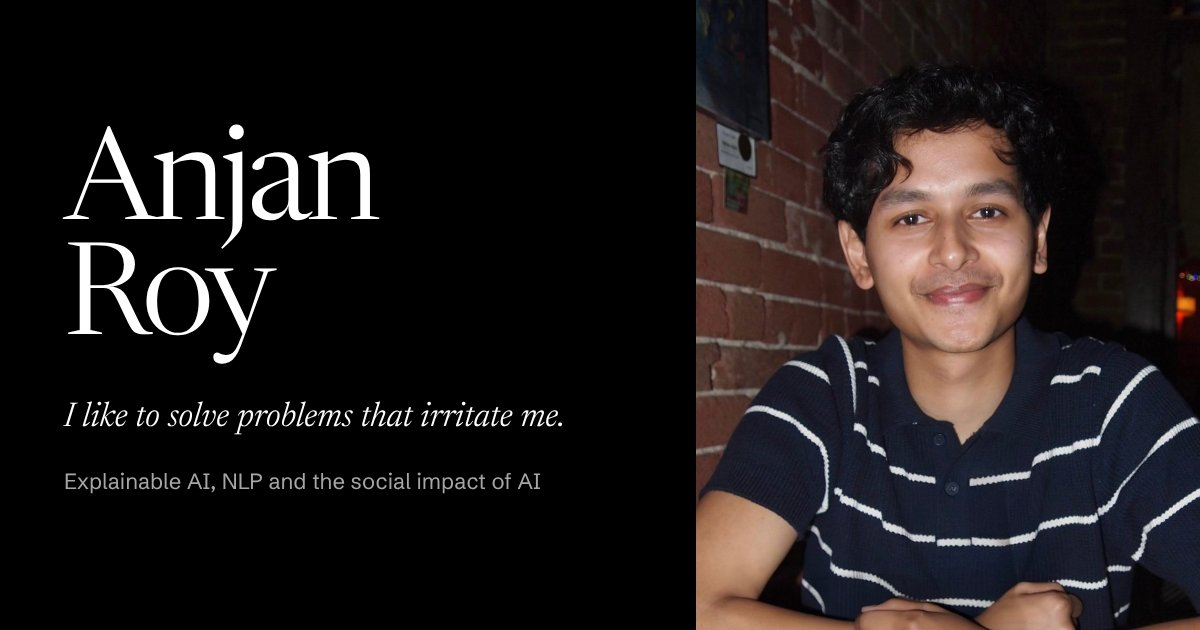
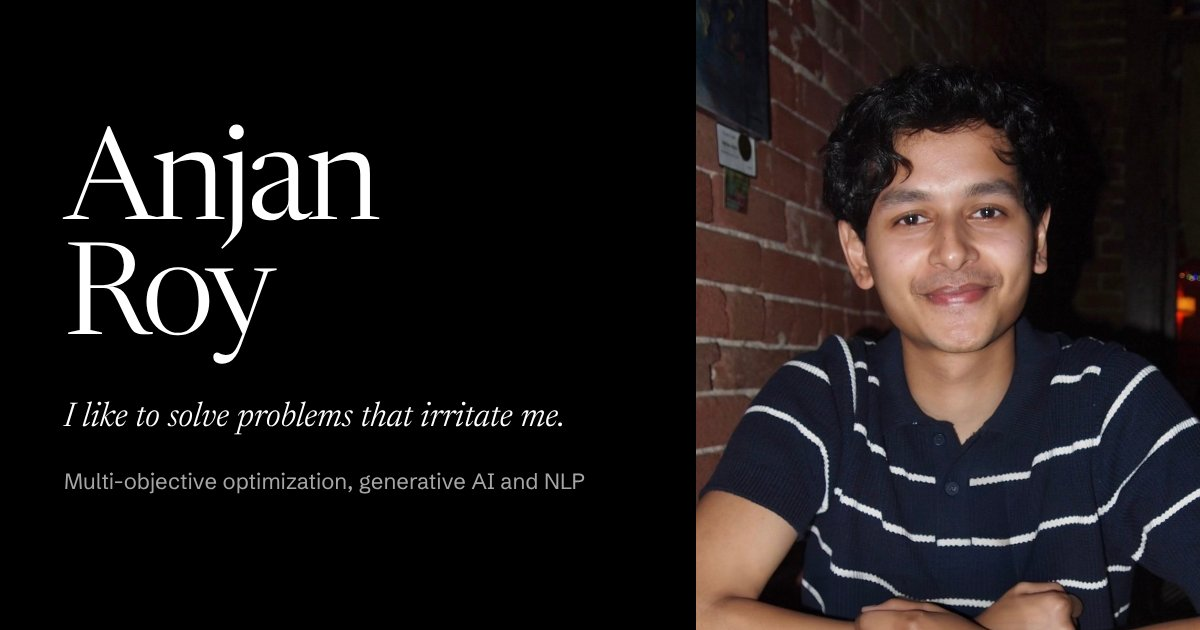
updates

Changed region(s): [[0.0617, 0.754, 0.4933, 0.7841]]

diff --git a/index.html b/index.html
@@ -3,15 +3,15 @@
 <head>
   <meta charset="utf-8">
   <meta name="viewport" content="width=device-width, initial-scale=1">
-  <title>Anjan Roy | Explainable AI, NLP and AI's social impact</title>
-  <meta name="description" content="Anjan Roy is a computer science researcher (BS and MS, Missouri State University) working on explainable AI, natural language processing, and the impact of AI on overlooked communities. Looking for PhD opportunities.">
+  <title>Anjan Roy | Computer science researcher</title>
+  <meta name="description" content="Anjan Roy is a computer science researcher (BS and MS, Missouri State University) working on generative models, multi-objective optimization and natural language processing. Looking for PhD opportunities.">
   <meta name="author" content="Anjan Roy">
   <link rel="canonical" href="https://anjan14.github.io/">
 
   <meta property="og:type" content="website">
   <meta property="og:url" content="https://anjan14.github.io/">
   <meta property="og:title" content="Anjan Roy">
-  <meta property="og:description" content="Computer science researcher working on explainable AI, NLP, and the impact of AI on overlooked communities.">
+  <meta property="og:description" content="Computer science researcher working on generative models, multi-objective optimization and natural language processing.">
   <meta property="og:image" content="https://anjan14.github.io/assets/img/og-image.jpg">
   <meta name="twitter:card" content="summary_large_image">
 
@@ -45,7 +45,7 @@
     "image": "https://anjan14.github.io/assets/img/anjan-roy.jpg",
     "email": "mailto:ar567s@missouristate.edu",
     "alumniOf": { "@type": "CollegeOrUniversity", "name": "Missouri State University" },
-    "knowsAbout": ["Explainable AI", "Natural language processing", "Data science", "Societal impact of AI"],
+    "knowsAbout": ["Generative AI", "Multi-objective optimization", "Natural language processing", "Uncertainty and latent-variable models", "Reinforcement learning", "Data science"],
     "sameAs": [
       "https://github.com/Anjan14",
       "https://www.linkedin.com/in/anjan-roy14/",
@@ -141,22 +141,20 @@
         <div class="section-body">
           <div class="prose-lg">
             <p>
-              Large language models are advancing faster than the guardrails meant to keep them from acting
-              irrationally, and because our societies are organized around profit and an illusion of competition,
-              pausing that progress isn’t realistic. I think the most plausible way to protect people’s interests
-              is rigorous scholarship, both qualitative and quantitative, that explains how these systems reason
-              when they make decisions. That understanding lets researchers show a broader audience how AI
-              development affects marginalized communities. The nonlinear path of my own life and interests is a
-              big part of why I care about this direction.
+              My current work, GenMOR, asks whether a variational autoencoder can learn what makes a plan
+              Pareto-optimal from data alone. I’ve also built a question-answering model that abstains when a
+              question has no answer and gives confidence scores that reflect how likely it is to be right.
             </p>
           </div>
 
           <h3 class="subhead">Interests</h3>
           <ul class="interest-list">
-            <li>Societal and environmental impact of AI on traditionally overlooked, marginalized communities</li>
-            <li>Explainable AI</li>
+            <li>Uncertainty and latent-variable models</li>
+            <li>Generative AI</li>
             <li>Natural language processing</li>
+            <li>Reinforcement learning</li>
             <li>Data science and analytics</li>
+            <li>Large-scale predictive modeling</li>
           </ul>
 
           <h3 class="subhead" id="work-title">Research experience</h3>
@@ -168,8 +166,8 @@
 
           <div class="work-group" data-group>
             <div class="work-group-head">
-              <h3>Graduate research, Missouri State University</h3>
-              <span class="dates">Jan 2025 – May 2026</span>
+              <h3>Graduate and undergraduate research, Missouri State University</h3>
+              <span class="dates">Jan 2021 – May 2026</span>
             </div>
             <ul class="work-list">
               <li data-topics="Generative models">
@@ -190,24 +188,7 @@
                   </div>
                 </details>
               </li>
-              <li data-topics="Explainable AI">
-                <details class="work">
-                  <summary>
-                    <span class="work-title">Meta-ensemble explainable AI</span>
-                    <span class="work-summary">A framework that learns to combine LIME, SHAP and Grad-CAM into more reliable visual explanations.</span>
-                    <span class="work-toggle" aria-hidden="true"></span>
-                  </summary>
-                  <div class="work-detail">
-                    <p>
-                      Instead of trusting a single explanation method, this framework integrates several (LIME, SHAP and Grad-CAM)
-                      and learns how to combine them into one visual attribution. It showed improved fidelity, stability and
-                      sparsity compared with each method on its own.
-                    </p>
-                    <ul class="tags"><li>Explainable AI</li><li>LIME</li><li>SHAP</li><li>Grad-CAM</li></ul>
-                  </div>
-                </details>
-              </li>
-              <li data-topics="NLP">
+              <li data-topics="NLP|Uncertainty">
                 <details class="work">
                   <summary>
                     <span class="work-title">Question answering that knows when not to answer</span>
@@ -222,6 +203,23 @@
                       an answer is to be correct.
                     </p>
                     <ul class="tags"><li>NLP</li><li>BERT</li><li>Calibration</li></ul>
+                  </div>
+                </details>
+              </li>
+              <li data-topics="Explainable AI">
+                <details class="work">
+                  <summary>
+                    <span class="work-title">Meta-ensemble explainable AI</span>
+                    <span class="work-summary">A framework that learns to combine LIME, SHAP and Grad-CAM into more reliable visual explanations.</span>
+                    <span class="work-toggle" aria-hidden="true"></span>
+                  </summary>
+                  <div class="work-detail">
+                    <p>
+                      Instead of trusting a single explanation method, this framework integrates several (LIME, SHAP and Grad-CAM)
+                      and learns how to combine them into one visual attribution. It showed improved fidelity, stability and
+                      sparsity compared with each method on its own.
+                    </p>
+                    <ul class="tags"><li>Explainable AI</li><li>LIME</li><li>SHAP</li><li>Grad-CAM</li></ul>
                   </div>
                 </details>
               </li>
@@ -244,36 +242,6 @@
                       recall for generative models while giving discriminative models only marginal efficiency gains.
                     </p>
                     <ul class="tags"><li>NLP</li><li>Data science</li><li>Naive Bayes</li><li>SVM</li></ul>
-                  </div>
-                </details>
-              </li>
-            </ul>
-          </div>
-
-          <div class="work-group" data-group>
-            <div class="work-group-head">
-              <h3>Undergraduate research, Missouri State University</h3>
-              <span class="dates">Jan 2021 – Dec 2024</span>
-            </div>
-            <ul class="work-list">
-              <li data-topics="Robotics and simulation">
-                <details class="work">
-                  <summary>
-                    <span class="work-title">Autonomous vessel navigation in simulation</span>
-                    <span class="work-summary">Maritime environments in Panda3D for testing how autonomous surface vehicles plan safe paths.</span>
-                    <span class="work-toggle" aria-hidden="true"></span>
-                  </summary>
-                  <div class="work-detail">
-                    <p>
-                      I designed realistic maritime simulation environments in the Panda3D game engine to evaluate autonomous
-                      surface vehicle (ASV) navigation, integrating AI path-finding and collision avoidance with motion-planning
-                      approaches including Velocity Obstacles (VO), Rapidly-exploring Random Trees (RRT), and hybrid
-                      VO-RRT planning that follows COLREGs, the international rules for avoiding collisions at sea.
-                    </p>
-                    <p>
-                      Results: navigation efficiency up 30%, potential collision rates down 25%, and trajectory accuracy up 20%.
-                    </p>
-                    <ul class="tags"><li>Motion planning</li><li>RRT</li><li>Panda3D</li></ul>
                   </div>
                 </details>
               </li>
@@ -303,9 +271,9 @@
                   </summary>
                   <div class="work-detail">
                     <p>
-                      A command-line shell with command execution, history management, error handling, scripting support and
-                      custom plugins. Refining memory management and process control cut command execution time by 20% and peak
-                      CPU usage by 25%, and the shell earned a 95% positive rating in user testing.
+                      A command-line shell with command execution, history management and robust error handling, extended
+                      with scripting support and custom plugins. I also improved its efficiency by refining memory management
+                      and process control.
                     </p>
                     <ul class="tags"><li>C</li><li>Operating systems</li></ul>
                   </div>
@@ -352,16 +320,16 @@
 
           <article class="project" aria-labelledby="asv-title">
             <div class="project-text">
-              <h3 class="project-title" id="asv-title">Autonomous surface vehicles</h3>
-              <p class="project-status">Undergraduate research, 2021–2024</p>
+              <h3 class="project-title" id="asv-title">Autonomous surface vessels</h3>
+              <p class="project-status">AIG Lab, Missouri State University, 2024</p>
               <p>
-                Realistic maritime simulations built in Panda3D to evaluate how autonomous surface vehicles navigate:
-                finding a path, avoiding collisions, and planning a safe trajectory.
+                Maritime simulation environments built in Panda3D to test how autonomous surface vessels navigate
+                head-on, crossing, overtaking, multi-vessel and traffic-separation-scheme scenarios.
               </p>
               <p>
-                I integrated and tested motion-planning approaches including Velocity Obstacles, Rapidly-exploring
-                Random Trees (RRT), and hybrid VO-RRT planning that follows COLREGs, the international rules for avoiding
-                collisions at sea. The work improved navigation efficiency by 30% and reduced potential collision rates by 25%.
+                I implemented and compared Velocity Obstacle, Rapidly-exploring Random Tree (RRT) and hybrid
+                VO-RRT-COLREGs path planners, classifying each encounter and choosing the avoidance maneuver that
+                COLREGs, the international rules for avoiding collisions at sea, require.
               </p>
               <p class="project-more">A full write-up is coming soon.</p>
             </div>
@@ -388,7 +356,7 @@
         <div class="section-body">
           <p class="pub">
             <cite class="pub-title">GenMOR: Learning and Generating Pareto-Aware Solutions for Multi-Objective Planning with Variational Autoencoders</cite>
-            <span class="pub-authors"><strong>A. K. Roy</strong>, S. Hasnayeen, H. Rahamani</span>
+            <span class="pub-authors"><strong>A. K. Roy</strong>, S. Hasnayeen, H. Rahmani</span>
             <span class="pub-venue">Manuscript in preparation</span>
           </p>
         </div>
@@ -412,6 +380,29 @@
                   </ul>
                 </div>
               </li>
+              <li>
+                <span class="when">Aug 2024 – Dec 2024</span>
+                <div>
+                  <h3>Artificial Intelligence Researcher</h3>
+                  <p class="where">AIG Lab, Missouri State University</p>
+                  <ul>
+                    <li>Built maritime simulation environments in Panda3D to test autonomous surface vessel navigation in head-on, crossing, overtaking, multi-vessel and traffic-separation-scheme scenarios.</li>
+                    <li>Implemented and compared Velocity Obstacle (VO), Rapidly-exploring Random Tree (RRT) and hybrid VO-RRT-COLREGs path planners, classifying each encounter and choosing the avoidance maneuver the collision regulations require.</li>
+                  </ul>
+                </div>
+              </li>
+              <li>
+                <span class="when">Jan 2023 – Aug 2023</span>
+                <div>
+                  <h3>Operations Assistant</h3>
+                  <p class="where">EFactory, Robert W. Plaster Free Enterprise Center, Missouri State University</p>
+                  <ul>
+                    <li>Kept daily operations running for EFactory, Missouri State’s business incubator: tracked and updated team tasks in Trello and scheduled meetings for staff and the startups based in the building.</li>
+                    <li>Managed stakeholder data in spreadsheets and built charts of growth over time for staff reporting.</li>
+                    <li>Troubleshot computer and technology issues for the businesses in the building, and helped organize business and networking events.</li>
+                  </ul>
+                </div>
+              </li>
             </ol>
           </div>
         </section>
@@ -427,7 +418,7 @@
                   <h3>MS in Computer Science</h3>
                   <p class="where">Missouri State University, with a Data Science Certification</p>
                   <ul>
-                    <li>Coursework: Data Analytics, Introduction to AI, Explainable AI, Natural Language Processing, Generative AI</li>
+                    <li>Coursework: Generative AI, Natural Language Processing, Data Analytics, Introduction to AI, Explainable AI, Information Retrieval, Introduction to Data Science, Research Methods</li>
                   </ul>
                 </div>
               </li>
@@ -437,7 +428,7 @@
                   <h3>BS in Computer Science, minor in Mathematics</h3>
                   <p class="where">Missouri State University</p>
                   <ul>
-                    <li>Coursework: Calculus I and II, Discrete Mathematics, Statistics, Data Mining</li>
+                    <li>Coursework: Data Structures, Algorithms, Calculus I and II, Discrete Mathematics, Statistics, Data Mining</li>
                   </ul>
                 </div>
               </li>
@@ -451,7 +442,8 @@
           <div class="section-body">
             <ul class="plain-list">
               <li>International Excellence Award <span class="detail">Missouri State University</span></li>
-              <li>Top 5 speaker, Hoosier Invitational debate tournament <span class="detail">Indiana University Bloomington</span></li>
+              <li>Top 5 national speaker ranking, Hoosier Invitational <span class="detail">Indiana University Bloomington</span></li>
+              <li>Top 10 national competitive ranking across 50+ debates <span class="detail">Cross Examination Debate Association</span></li>
               <li>Physics, Astronomy, and Materials Science Department Scholarship <span class="detail">Missouri State University</span></li>
               <li>Holt V. Spicer Debate Forum Scholarship <span class="detail">Missouri State University</span></li>
             </ul>
@@ -463,16 +455,52 @@
           <div class="section-head"><h2 class="section-title" id="skills-title">Skills</h2></div>
           <div class="section-body">
             <dl class="skills">
-              <dt>Programming</dt><dd>Python, C, C++, Java</dd>
-              <dt>Machine learning</dt><dd>PyTorch, TensorFlow, Keras, scikit-learn, Apache Spark MLlib</dd>
+              <dt>Programming</dt><dd>Python, C, C++, Java, Bash/Unix shell, HTML/JavaScript</dd>
+              <dt>Machine learning</dt><dd>PyTorch, TensorFlow, Keras, scikit-learn, Apache Spark MLlib, Hugging Face Transformers</dd>
+              <dt>Generative models</dt><dd>Autoencoders, variational autoencoders (VAE), conditional VAE</dd>
+              <dt>Optimization</dt><dd>Multi-objective optimization, Pareto dominance</dd>
+              <dt>NLP</dt><dd>BERT fine-tuning, extractive QA (SQuAD 2.0), text classification, spaCy</dd>
+              <dt>Uncertainty and evaluation</dt><dd>Model calibration (ECE, Brier score), selective prediction and abstention</dd>
               <dt>Explainability</dt><dd>LIME, SHAP, Grad-CAM, LRP, SmoothGrad</dd>
               <dt>Data and visualization</dt><dd>pandas, NumPy, SciPy, Matplotlib, Seaborn, Plotly</dd>
-              <dt>NLP and vision</dt><dd>spaCy, OpenCV</dd>
+              <dt>Computer vision</dt><dd>OpenCV</dd>
               <dt>Simulation and 3D</dt><dd>Panda3D, Unity ML-Agents, Blender</dd>
-              <dt>Databases</dt><dd>MySQL, Firebase</dd>
-              <dt>Tools</dt><dd>Git, GitHub, Jira, Jupyter Notebook, Google Colab</dd>
-              <dt>Languages</dt><dd>English (proficient), Bengali (native), Hindi (speaking proficiency), French (elementary), Greek (elementary)</dd>
+              <dt>Databases and web</dt><dd>MySQL, Firebase, Flask</dd>
+              <dt>Tools</dt><dd>Git, GitHub, Jira, Jupyter, Google Colab, Trello</dd>
+              <dt>Languages</dt><dd>English (proficient), Bengali (proficient), Hindi (proficient), French (elementary)</dd>
             </dl>
+          </div>
+        </section>
+
+        <!-- ============ Volunteering ============ -->
+        <section class="section" id="volunteering" aria-labelledby="vol-title">
+          <div class="section-head"><h2 class="section-title" id="vol-title">Volunteering</h2></div>
+          <div class="section-body">
+            <ol class="timeline">
+              <li>
+                <span class="when">Jan 2022 – Dec 2024</span>
+                <div>
+                  <h3>Volunteer</h3>
+                  <p class="where">Ozark Food Harvest, Springfield, MO</p>
+                  <ul>
+                    <li>Organized Lambda Chi Alpha fundraising events, such as Watermelon Bash and LambdaCafe, with other fraternities and sororities, raising over $20,000 for Ozark Food Harvest.</li>
+                    <li>Packed food for distribution to families in need through the regional food bank.</li>
+                  </ul>
+                </div>
+              </li>
+              <li>
+                <span class="when">Jan 2018 – Dec 2020</span>
+                <div>
+                  <h3>Executive Member</h3>
+                  <p class="where">AHOBAN Foundation, Dhaka, Bangladesh</p>
+                  <ul>
+                    <li>Organized fundraising events for underrepresented communities and helped deliver food and clothing to families hit by monsoon flooding, and warm clothes during winter.</li>
+                    <li>Tutored a class of 15 children in math and English through the AHOBAN Education initiative.</li>
+                    <li>Raised funds to send underprivileged children to school free of charge, covering costs such as school uniforms and books.</li>
+                  </ul>
+                </div>
+              </li>
+            </ol>
           </div>
         </section>
       </div>

diff --git a/assets/js/main.js b/assets/js/main.js
@@ -204,7 +204,7 @@
       item.dataset.topics.split("|").forEach((t) => counts.set(t, (counts.get(t) || 0) + 1));
     });
 
-    const order = ["Explainable AI", "NLP", "Generative models", "Data science", "Robotics and simulation", "Systems"];
+    const order = ["Generative models", "Uncertainty", "NLP", "Explainable AI", "Data science", "Systems"];
     const topics = [...counts.keys()].sort((a, b) => {
       const ia = order.indexOf(a), ib = order.indexOf(b);
       return (ia < 0 ? 99 : ia) - (ib < 0 ? 99 : ib);
@@ -246,7 +246,7 @@
   const sectionsOnHome = [
     ["About", "about"], ["Research", "research"], ["Projects", "projects"],
     ["Publications", "publications"], ["Experience", "experience"], ["Education", "education"],
-    ["Awards", "awards"], ["Skills", "skills"], ["Contact", "contact"],
+    ["Awards", "awards"], ["Skills", "skills"], ["Volunteering", "volunteering"], ["Contact", "contact"],
   ];
 
   function baseCommands() {

diff --git a/blog/hello-world.md b/blog/hello-world.md
@@ -1,0 +1,13 @@
+This is the first post on my new website. I’ll use this space to write about my research, starting with GenMOR and my earlier work on autonomous vessel navigation, and about whatever ancient history or philosophy I happen to be reading.
+
+A small promise, since I care about this more than I probably should: every variable in every code snippet on this blog will have a proper name.
+
+```python
+# not this
+x = 0.947
+
+# this
+sms_spam_f1_linear_svm = 0.947
+```
+
+If you work on multi-objective optimization, NLP or the social side of AI, I’d like to hear from you. My email is on the [homepage](../#contact).
